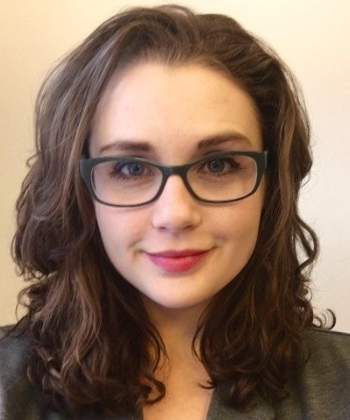
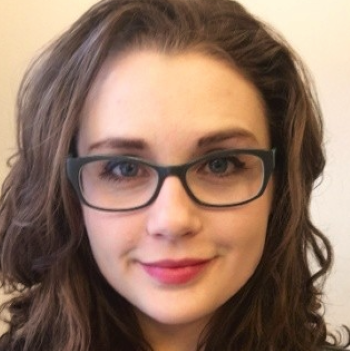
contact button positioning

diff --git a/src/css/main.scss b/src/css/main.scss
@@ -2,83 +2,76 @@
   background-color: #98ff98;
 }
 
-.home-container{
-  display:flex;
-  
+.home-container {
+  display: flex;
+  flex-direction: row;
 }
 
 h1 {
   font-family: "Nunito Sans", sans-serif;
   font-weight: bold;
-  font-size: 4rem;
+  font-size: 5em;
   letter-spacing: 0.02em;
-  margin-left: 2em;
-  margin-top: 2em;
- 
+  margin-left: 2.5em;
+  margin-top: 1.5em;
 }
 
-
-.content-home{
+.content-home {
   font-family: "Roboto", sans-serif;
   font-weight: bold;
   font-size: 2rem;
-  margin-left: 4em;
+  margin-left: 8em;
   margin-right: auto;
   max-width: 24em;
-  margin-bottom:5em;
+  margin-bottom: 5em;
 }
 
-
-
-
-
-
-
-
-
-
-
-.my-portrait{
-float: right;
-margin-right: 20em;
-margin-bottom: 15em;
-}
-
-.contact-button {
-  font-size: 1.75rem;
-  font-family: Arial;
+img .my-portrait {
   float: right;
-  margin-right: 6em;
-  border-width: 1px;
-  color: #fff;
-  border-color: rgba(152, 152, 255, 1);
-  border-top-left-radius: 28px;
-  border-top-right-radius: 28px;
-  border-bottom-left-radius: 28px;
-  border-bottom-right-radius: 28px;
-  text-shadow: -4px 1px 22px rgba(177, 177, 177, 1);
-  background: rgba(152, 152, 255, 1);
-// 
+
+  margin-bottom: 15em;
+  padding-bottom: 3em;
+
 }
 
 
 
-.contact-button {
-  background-color: #9898ff;
-  margin-right: 7em;
-  border-radius: 8px;
-  border: none;
-  padding: 15px 32px;
-  text-align: center;
-  font-size: 1.5rem;
-  text-decoration: none;
-  text-shadow: 0px 1px 2px #000000;
-
- 
+div.column-2 {
+  margin-left: 11em;
+  margin-right: 5em;
+  margin-top: 12em;
 }
 
+.intouch-button {
+  margin-top: 3em;
+  
 
-.contact-button:hover {
-  background: rgba(150, 150, 252, 0.79);
 }
 
+.intouch-button {
+	box-shadow:inset 0px 1px 1px 0px #efdcfb;
+	background:linear-gradient(to bottom, #dfbdfa 5%, #bc80ea 100%);
+	background-color:#dfbdfa;
+	border-radius:15px;
+	border:1px solid #c584f3;
+	display:inline-block;
+	cursor:pointer;
+	color:#ffffff;
+	font-family:Arial;
+	font-size:21px;
+	font-weight:bold;
+	padding:17px 22px;
+	text-decoration:none;
+	text-shadow:0px 1px 10px #9752cc;
+}
+.intouch-button:hover {
+	background:linear-gradient(to bottom, #bc80ea 5%, #dfbdfa 100%);
+	background-color:#bc80ea;
+}
+.intouch-button:active {
+	position:relative;
+	top:1px;
+}
+
+        
+        

diff --git a/src/homeSect.js b/src/homeSect.js
@@ -1,14 +1,14 @@
 import React from "react";
-import { Card, Container, Row, Col, Button, Image } from "react-bootstrap";
+import { Card, Button, Image } from "react-bootstrap";
 
 const HomeSlide = () => {
   return (
     <>
       <div className="home-container">
-        <div className="column 1">
+        <div className="column-1">
           <h1 className="title-home">
-            Hi, I'm Taylor and I develop
-            <br /> apps and websites.
+            Hi, I'm Taylor. <br/> I develop
+            apps and websites.
           </h1>
           <Card>
             <Card.Body className="content-home">
@@ -22,10 +22,10 @@ const HomeSlide = () => {
             </Card.Body>
           </Card>
         </div>
-        <div className="column 2">
-          <Image src="./images/portrait.png"></Image>
+        <div className="column-2">
+          <Image src="./images/portrait.png" className= "my-portrait"></Image>
           <div>
-            <Button className="content-button">Get in touch</Button>
+            <Button className="intouch-button">Get in Touch</Button>
           </div>
         </div>
       </div>

diff --git a/src/FullPageScroll.js b/src/FullPageScroll.js
@@ -7,11 +7,12 @@ import anchors from "./anchors";
 const FullPageScroll = () => (
   <ReactFullpage
     pluginWrapper={pluginWrapper}
-    scrollingSpeed={1000}
+    scrollingSpeed={1000} 
     anchors={anchors}
     navigationTooltips={anchors}
     touchSensitivity={15}
- 
+    navigation={true}
+  
     render={({ state, fullpageApi }) => {
       return (
         <>
@@ -21,15 +22,16 @@ const FullPageScroll = () => (
             </div>
 
             <div className="section skills" data-anchor="Skills">
-              <skillSect />
+            
+             <skillSect/>
             </div>
 
             <div className="section projects" data-anchor="Projects">
-              <projectSect />
+           <projectSect/>
             </div>
 
             <div className="section contact" data-anchor="Contact">
-              <contactSect />
+        <contactSect/>
             </div>
           </ReactFullpage.Wrapper>
         </>
